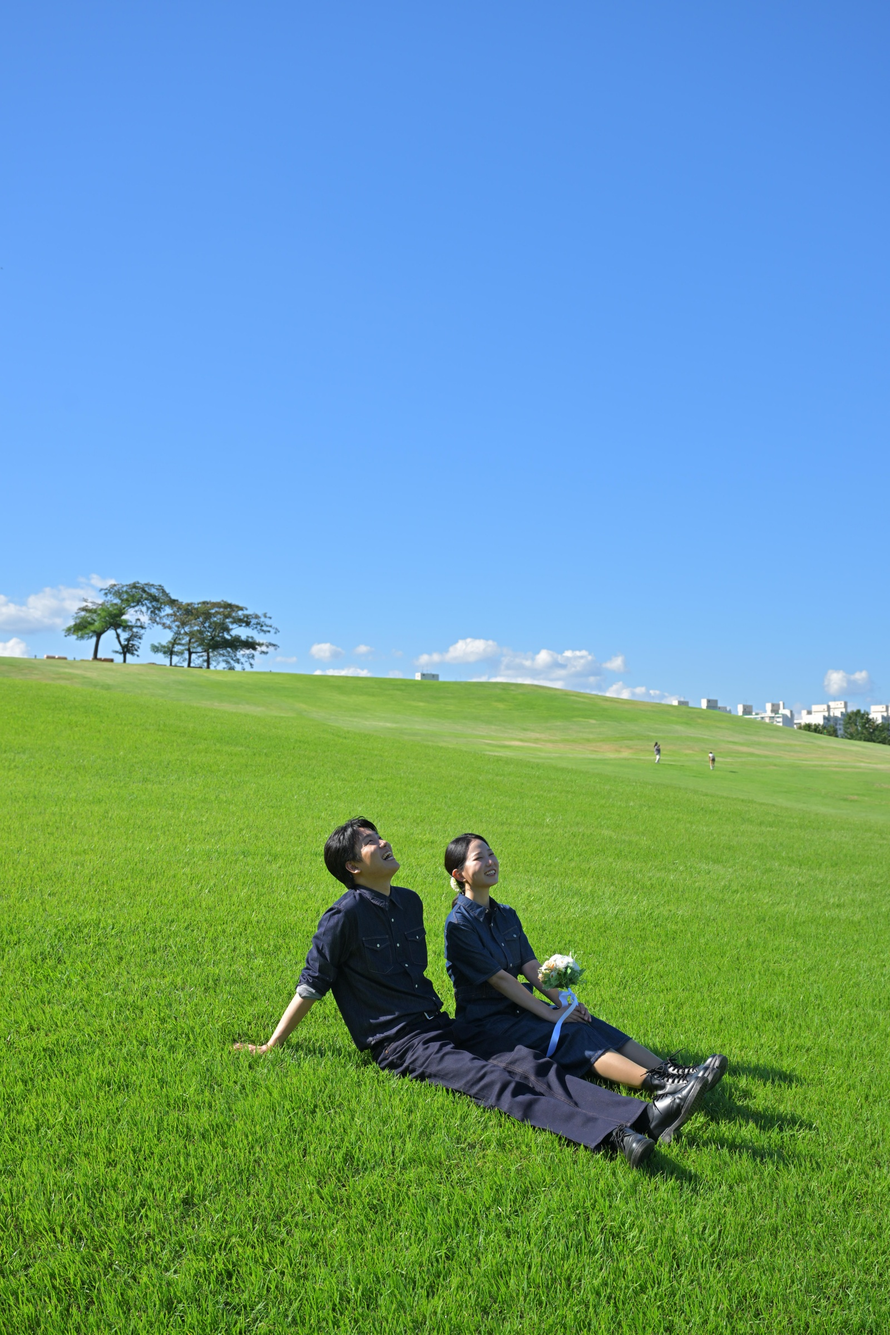
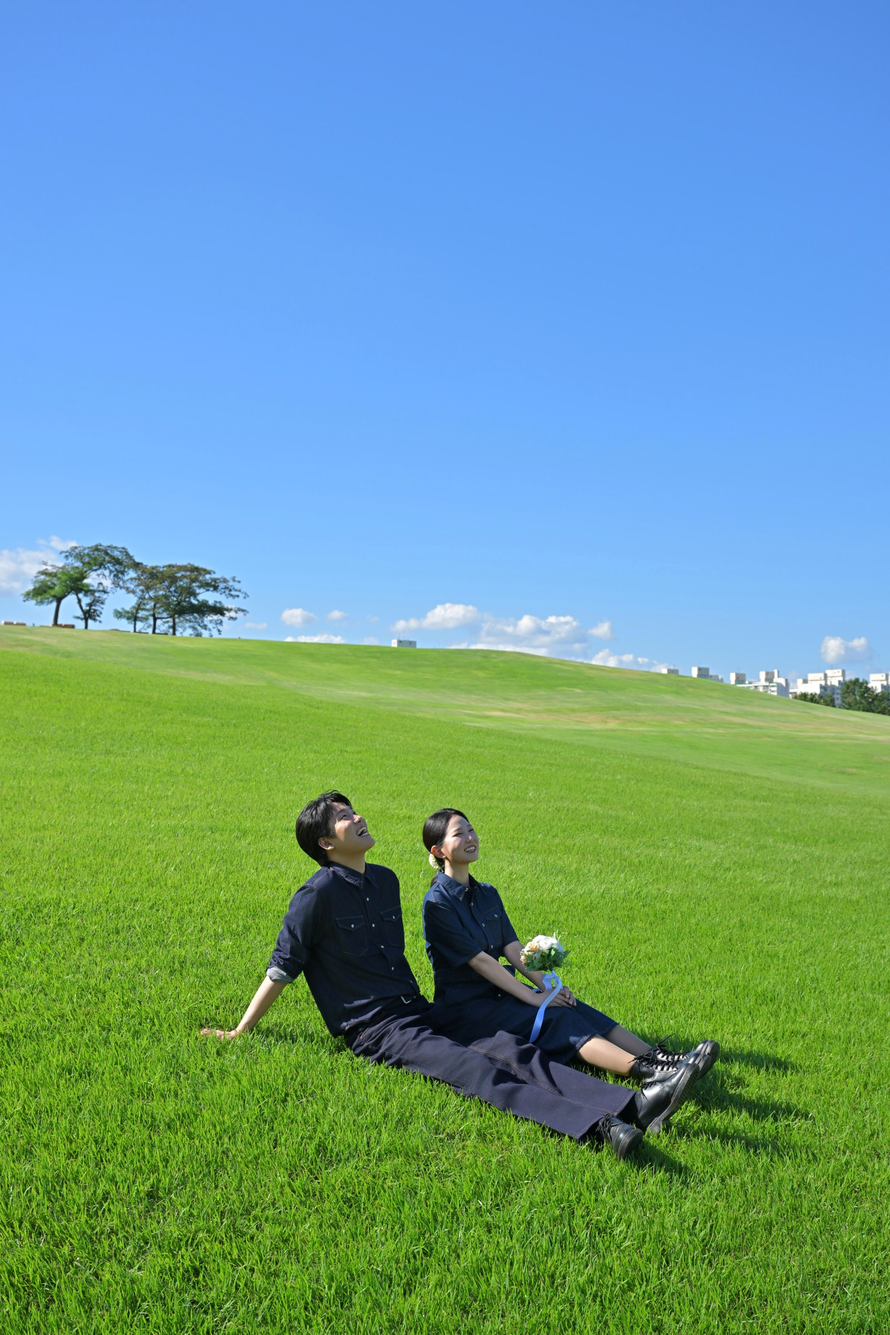
Update guest lookup and wedding photos

diff --git a/app/layout.tsx b/app/layout.tsx
@@ -4,7 +4,7 @@ import "./globals.css";
 
 const metadataBaseUrl = "https://jy-mj-2026.github.io";
 const siteUrl = "https://jy-mj-2026.github.io/wedding/";
-const socialImageUrl = "https://jy-mj-2026.github.io/wedding/images/og/wedding-og-v3.jpg";
+const socialImageUrl = "https://jy-mj-2026.github.io/wedding/images/og/wedding-og-v4.jpg";
 const socialTitle = "최종윤 · 장민정 결혼합니다";
 const socialDescription = "2026.12.19. 토요일 오전 11시 | 성균관컨벤션웨딩홀";
 
